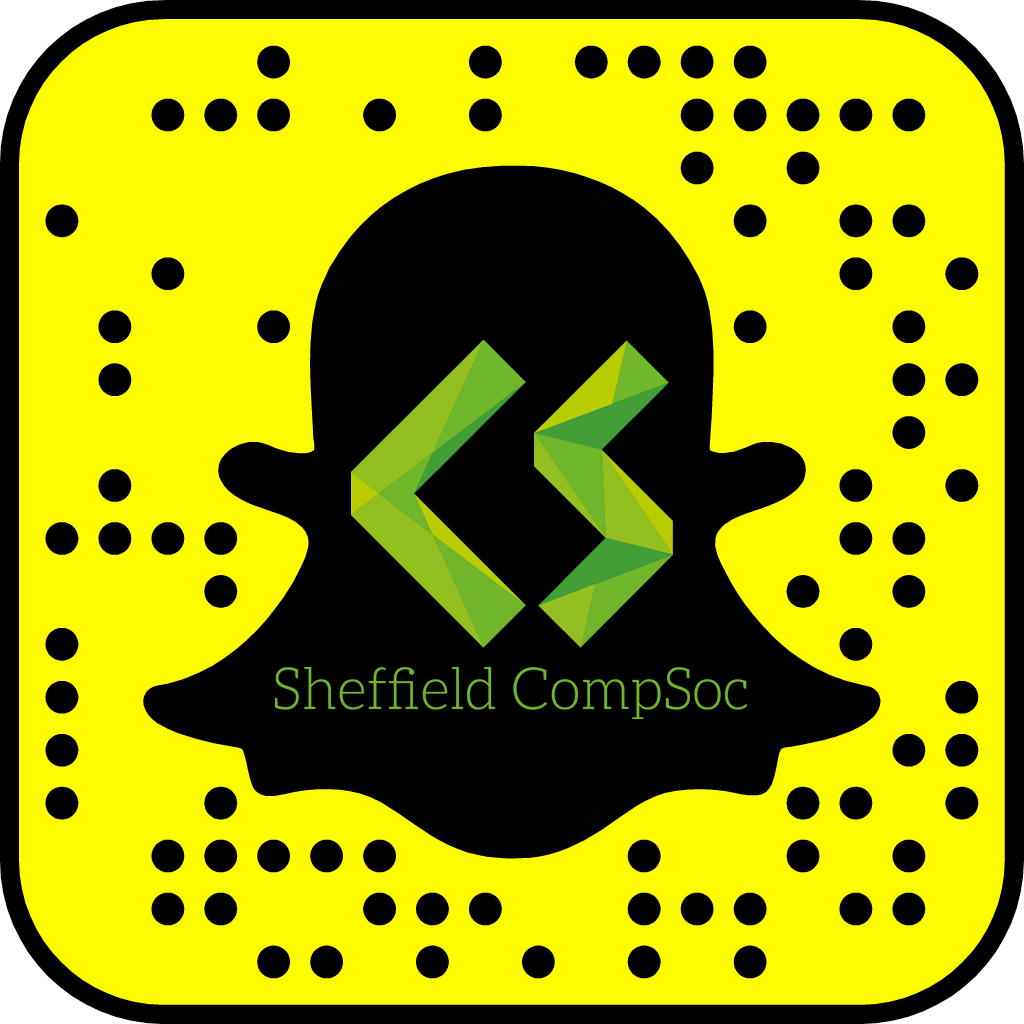
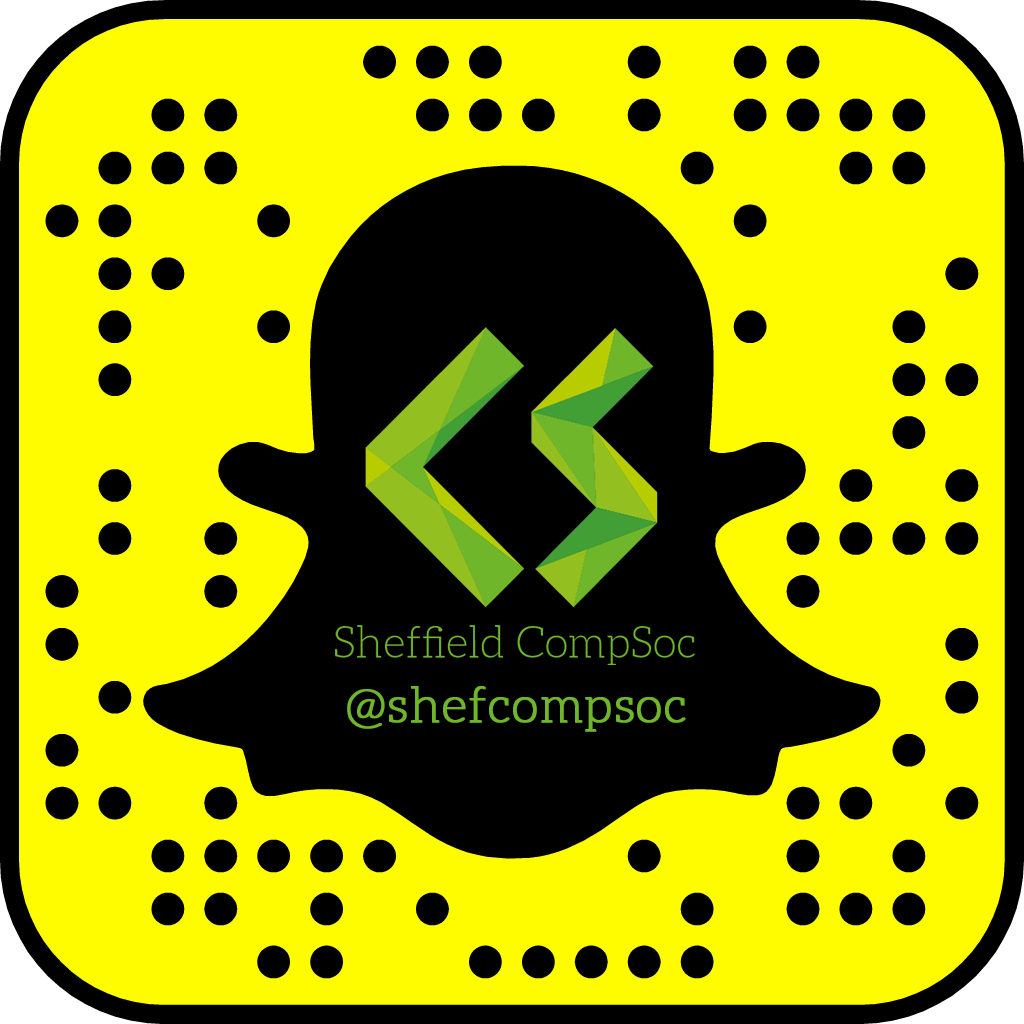
improve social page

diff --git a/public_html/css/components/content.scss b/public_html/css/components/content.scss
@@ -35,7 +35,7 @@
   font-size: 4rem;
   font-family: Aleo;
   font-weight: 300;
-  color: $cs-green1;
+  color: $cs-green4;
 }
 
 

diff --git a/public_html/social.php b/public_html/social.php
@@ -80,42 +80,61 @@
 
           <a href="https://www.facebook.com/shefcompsoc/">
             <figure>
-              <img src="assets/fb_logo.png" alt="">
+              <div>
+                <img src="assets/fb_logo.png" alt="">
+              </div>
               <figcaption>Main Facebook Page</figcaption>
             </figure>
           </a>
           <br>
           <a href="https://www.facebook.com/groups/879150085447908/">
             <figure>
-              <img src="assets/fb_logo.png" alt="">
+              <div>
+                <img src="assets/fb_logo.png" alt="">
+              </div>
               <figcaption>CompSoc General Chat</figcaption>
             </figure>
           </a>
           <br>
           <a href="https://www.facebook.com/groups/1788205561451417/">
             <figure>
-              <img src="assets/fb_logo.png" alt="">
+              <div>
+                <img src="assets/fb_logo.png" alt="">
+              </div>
               <figcaption>CompSoc CS1 (First Year)</figcaption>
             </figure>
           </a>
           <br>
           <a href="https://www.facebook.com/groups/1092506430863758/">
             <figure>
-              <img src="assets/fb_logo.png" alt="">
+              <div>
+                <img src="assets/fb_logo.png" alt="">
+              </div>
               <figcaption>CompSoc CS2 (Second Year)</figcaption>
             </figure>
           </a>
           <br>
           <a href="https://www.facebook.com/groups/1101868363183656/">
             <figure>
-              <img src="assets/fb_logo.png" alt="">
+              <div>
+                <img src="assets/fb_logo.png" alt="">
+              </div>
               <figcaption>CompSoc CS3+ (Third Year or above)</figcaption>
             </figure>
           </a>
         </section>
 
         <section id="snapchat" class="social">
-          <h1>Snapchat</h1>
+          <figure>
+            <div>
+              <img src="assets/sc-logo.png" alt="" />
+            </div>
+            <figcaption>
+              <h1>Snapchat</h1>
+              <p>@shefcompsoc</p>
+            </figcaption>
+          </figure>
+          <br>
           <p>
             <a href="https://support.snapchat.com/en-GB/article/friends-snapcodes">Scan this with your phone</a> or <a href="https://support.snapchat.com/en-GB/a/add-snapcodes">screenshot it and add it in the Snapchat app.</a>
           </p>
